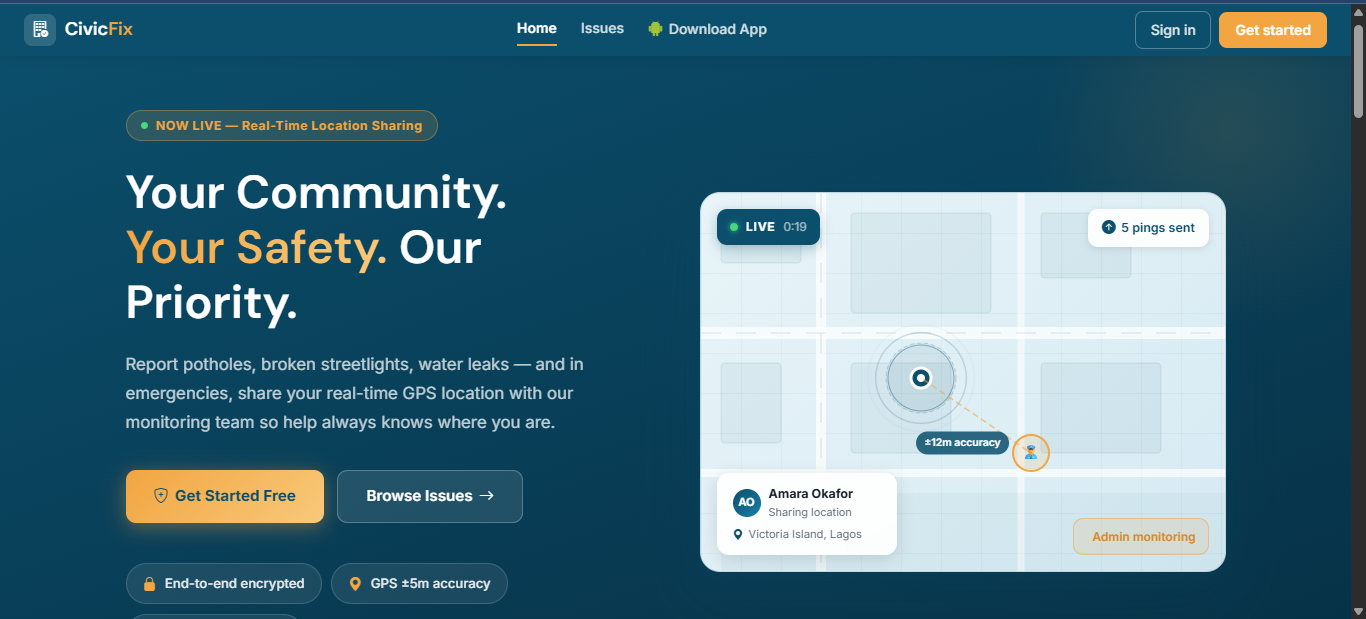
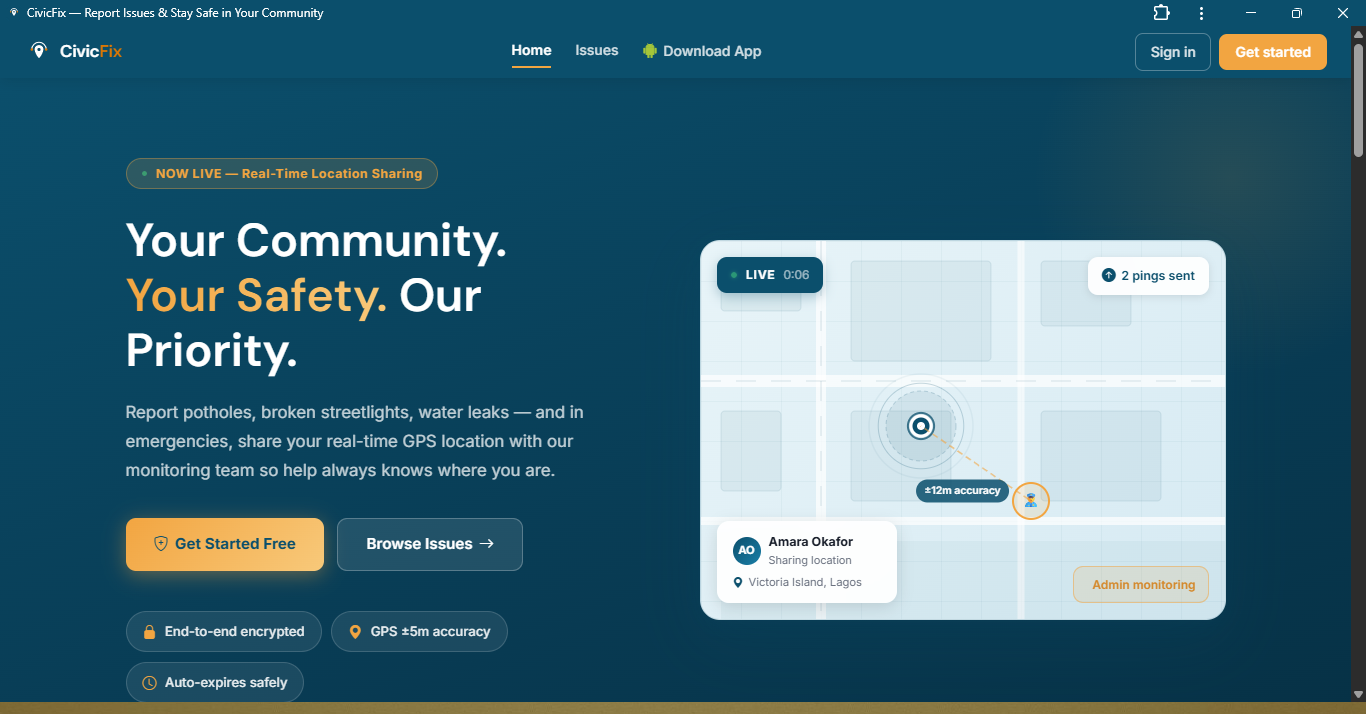
updates

diff --git a/terminal.js b/terminal.js
@@ -69,6 +69,16 @@
      ══════════════════════════════════════════════════════════ */
 
   const STUB_PROJECTS = [
+    {
+      id: 'stub-voltwatch',
+      title: 'VoltWatch',
+      description: 'Laptop battery monitoring and remote alert system for unattended Windows trading rigs.',
+      tech: ['Python', 'SQLite', 'MongoDB Atlas', 'HTML', 'Bootstrap 5', 'vanilla JS', 'Chart.js 4', 'REST API', 'JWT Authentication', 'GitHub Actions'],
+      github: 'https://github.com/ShimboJr/VoltWatch',
+      live: 'https://voltwatch-dashboard.vercel.app/',
+      image: './images/voltwatch.jpg',
+      dateAdded: '2026-11-01T21:26:00Z',
+    },
       {
           id: 'stub-tradiary',
           title: 'Tradiary',
@@ -96,7 +106,7 @@
       tech: ['CSS', 'HTML5', 'BootStrap', 'JavaScript'],
       github: 'https://github.com/ShimboJr/Sjr-Music-API-UI',
       live: 'https://sjr-music.vercel.app/',
-      image: './images/sjr-music.jpg',
+      image: './images/sjr-music.png',
       dateAdded: '2026-08-08T20:18:00Z',
     },
     {

diff --git a/settings.js b/settings.js
@@ -25,7 +25,7 @@
     name: 'Siyanbola Adeola Olaoluwa',
     initials: 'AO',             // 2-letter avatar initials
     role: 'Software Engineer',
-    location: 'Lagos, Nigeria',
+    location: 'Ogbomoso, Oyo State, Nigeria',
     resumeHref: 'resume.pdf',   // path or URL to your CV
   };
 

diff --git a/texteditor.js b/texteditor.js
@@ -38,7 +38,7 @@ the art of software engineering.
 
 ## Currently
 
-- Working on a clone of Cowrywise
+- Working on a SJr Laundry Suite 
 - Levelling up in Software Engineering (Full Stack Web Development)
 - Available for **remote opportunities** worldwide
 
